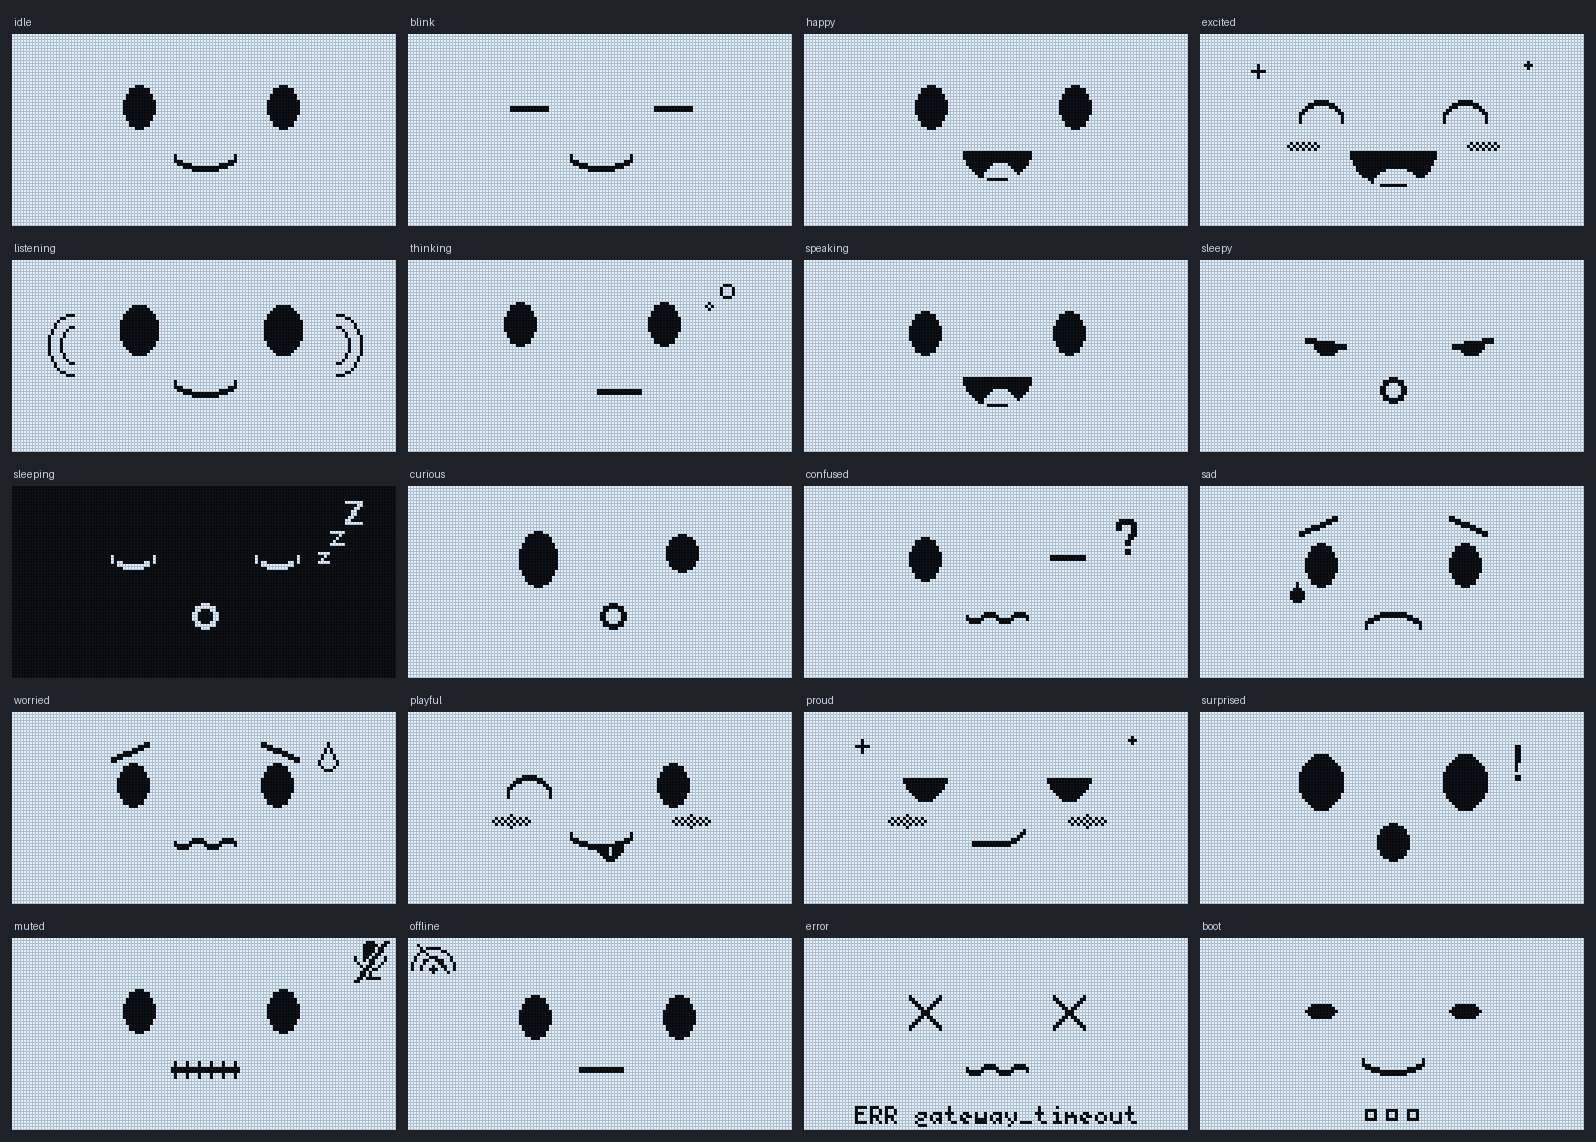
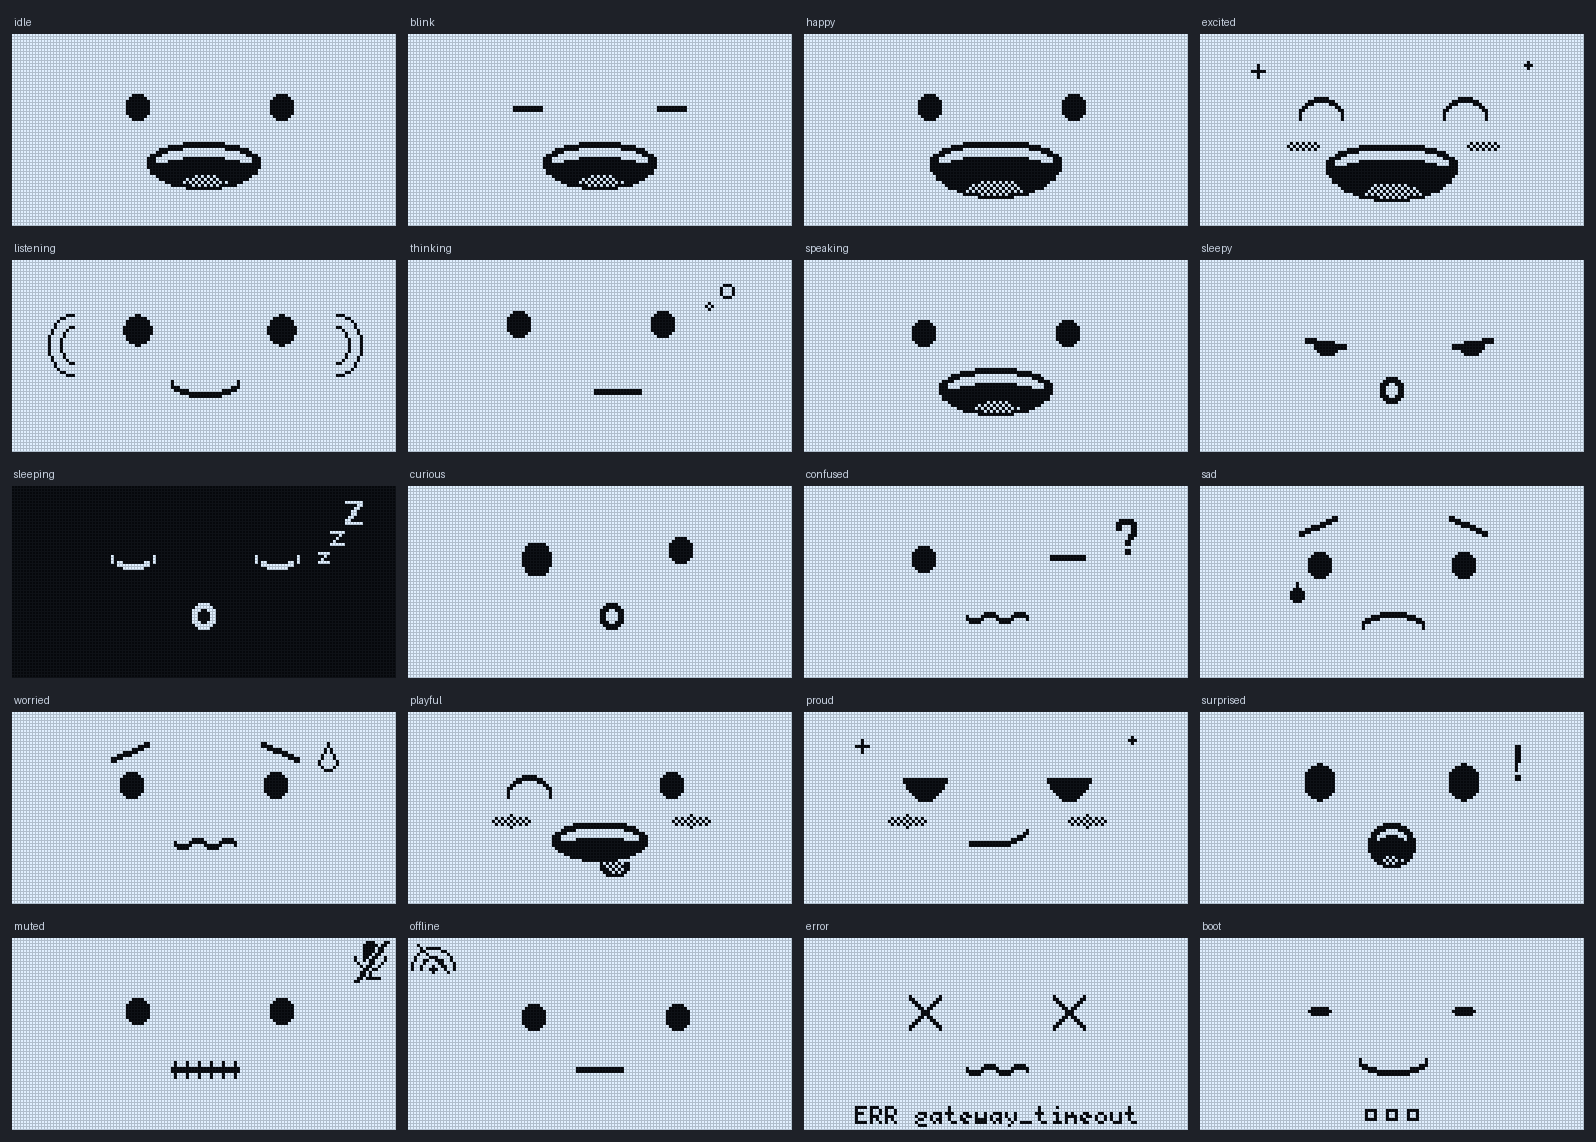
BMO's own face: round dot eyes and open mouth with teeth and tongue
Proportions measured from a reference of BMO's face: round dot eyes at
27 %/73 % of the width, a wide open mouth (flat-ish top, deeper round
bottom) with a 2 px dark lip, a lit teeth band and a half-tone tongue.
The resting face uses this mouth; happy/excited use a bigger one; talking
steps through closed, small, medium and full open mouths.

Claude-Session: https://claude.ai/code/session_01HPnAtW7D4HTiLvwf8xaJZK

diff --git a/firmware/lib/robot_ui/src/face_painter.cpp b/firmware/lib/robot_ui/src/face_painter.cpp
@@ -39,6 +39,55 @@ void MonoFacePainter::fillEllipse(u8g2_t* g, int cx, int cy, int rx, int ry, Rol
   }
 }
 
+namespace {
+inline bool inEllipse(float px, float py, float cx, float cy, float rx, float ry) {
+  if (rx <= 0 || ry <= 0) return false;
+  float dx = (px - cx) / rx, dy = (py - cy) / ry;
+  return dx * dx + dy * dy <= 1.0f;
+}
+// Inside the mouth outline: upper half uses `top`, lower half `bottom` as vertical radius.
+inline bool inMouth(float px, float py, float cx, float cy, float rx, float top, float bottom) {
+  return inEllipse(px, py, cx, cy, rx, py < cy ? top : bottom);
+}
+}  // namespace
+
+void MonoFacePainter::fillEllipseF(u8g2_t* g, float cx, float cy, float rx, float ry, Role r, int part) {
+  if (rx <= 0.3f || ry <= 0.3f) return;
+  setRole(g, r == Role::Screen ? Role::Screen : Role::Feature);
+  int y0 = (int)floorf(cy - ry), y1 = (int)ceilf(cy + ry), x0 = (int)floorf(cx - rx), x1 = (int)ceilf(cx + rx);
+  for (int y = y0; y <= y1; y++) {
+    float py = y + 0.5f;
+    if ((part == 1 && py > cy) || (part == 2 && py < cy)) continue;
+    for (int x = x0; x <= x1; x++)
+      if (inEllipse(x + 0.5f, py, cx, cy, rx, ry) && (r != Role::Accent || ((x + y) & 1) == 0)) pixel(g, x, y);
+  }
+  setRole(g, Role::Feature);
+}
+
+void MonoFacePainter::bmoMouth(u8g2_t* g, float cx, float cy, float rx, float top, float bottom, int teeth,
+                               float tongueRx, float tongueRy) {
+  int y0 = (int)floorf(cy - top), y1 = (int)ceilf(cy + bottom), x0 = (int)floorf(cx - rx), x1 = (int)ceilf(cx + rx);
+  for (int y = y0; y <= y1; y++) {
+    for (int x = x0; x <= x1; x++) {
+      float px = x + 0.5f, py = y + 0.5f;
+      if (!inMouth(px, py, cx, cy, rx, top, bottom)) continue;
+      bool lit = false;
+      // Teeth: the band between the top lip (a 2 px dark edge, so white teeth stand apart from
+      // the lit screen) and the same curve `teeth` px lower.
+      if (teeth > 0 && py < cy && inEllipse(px, py, cx, cy, rx - 2.6f, top - 2.0f) &&
+          !inEllipse(px, py, cx, cy + teeth, rx - 2.6f, top - 2.0f))
+        lit = true;
+      // Tongue: a hump rising from the bottom, kept 1 px inside the outline, half-tone.
+      if (!lit && tongueRx > 0 && py > cy && inEllipse(px, py, cx, cy + bottom, tongueRx, tongueRy) &&
+          inMouth(px, py, cx, cy, rx - 1.5f, top, bottom - 1.2f))
+        lit = ((x + y) & 1) == 0;
+      setRole(g, lit ? Role::Screen : Role::Feature);
+      pixel(g, x, y);
+    }
+  }
+  setRole(g, Role::Feature);
+}
+
 void MonoFacePainter::thickHLine(u8g2_t* g, int x, int y, int w, int t) {
   if (w > 0 && t > 0) u8g2_DrawBox(g, (u8g2_uint_t)x, (u8g2_uint_t)y, (u8g2_uint_t)w, (u8g2_uint_t)t);
 }
@@ -81,10 +130,10 @@ void MonoFacePainter::wifiOffIcon(u8g2_t* g, int x, int y) {
 void MonoFacePainter::eye(u8g2_t* g, int cx, int cy, const EyePose& e, bool left) {
   float s = e.scale;
   switch (e.kind) {
-    case EyeKind::Dot: {
-      int rx = iround(5.0f * s), ry = iround(7.0f * s * e.open);
-      if (ry <= 1) thickHLine(g, cx - 6, cy, 13);
-      else fillEllipse(g, cx, cy, rx, ry, Role::Feature);
+    case EyeKind::Dot: {  // BMO's round dot: 8 x 9 px at scale 1
+      float ry = 4.5f * s * e.open;
+      if (ry < 1.2f) thickHLine(g, cx - 5, cy, 10);
+      else fillEllipseF(g, (float)cx, cy + 0.5f, 4.0f * s, ry, Role::Feature);
       break;
     }
     case EyeKind::Closed:
@@ -126,26 +175,31 @@ void MonoFacePainter::eye(u8g2_t* g, int cx, int cy, const EyePose& e, bool left
 
 // ------------------------------------------------------------------ mouth
 void MonoFacePainter::mouth(u8g2_t* g, int cx, int cy, const FacePose& p) {
-  auto openMouth = [&](int rx, int ry, int top, bool tongue) {
-    fillEllipse(g, cx, top, rx, ry, Role::Feature, kLower);
-    thickHLine(g, cx - rx, top, 2 * rx + 1, 1);
-    if (tongue && ry >= 5) fillEllipse(g, cx + 1, top + ry - 1, rx / 2, ry / 3 + 1, Role::Screen, kUpper);
-  };
+  const float mx = (float)cx, my = (float)cy;  // corner line; symmetric around pixel boundary cx
   switch (p.mouth) {
-    case MouthKind::Smile:
-      arc(g, cx, cy - 3, 10, 4, kLower);
+    case MouthKind::Grin:     // BMO's own open mouth (proportions from the show's face)
+      bmoMouth(g, mx, my, 19, 7, 9, 3, 9, 5);
+      break;
+    case MouthKind::BigGrin:  // wider and deeper
+      bmoMouth(g, mx, my, 22, 7.5f, 12, 3, 11, 6.5f);
+      break;
+    case MouthKind::BigO:     // surprised: a tall round open mouth
+      bmoMouth(g, mx, my + 1, 8, 7, 8, 2, 4.5f, 4);
+      break;
+    case MouthKind::Tongue:   // playful: open mouth with the tongue out over the lower lip
+      bmoMouth(g, mx, my, 16, 6.5f, 7, 3, 0, 0);
+      fillEllipseF(g, mx + 5, my + 7.5f, 5, 5, Role::Feature, 2);
+      fillEllipseF(g, mx + 5, my + 7.5f, 3.6f, 3.6f, Role::Screen, 2);
+      fillEllipseF(g, mx + 5, my + 7.5f, 3.6f, 3.6f, Role::Accent, 2);
+      break;
+    case MouthKind::Smile:    // closed smile line
+      arc(g, cx, cy - 3, 11, 4, kLower);
       break;
     case MouthKind::Flat:
-      thickHLine(g, cx - 7, cy, 15);
-      break;
-    case MouthKind::Grin:
-      openMouth(11, 9, cy - 4, true);
-      break;
-    case MouthKind::BigGrin:
-      openMouth(14, 11, cy - 5, true);
+      thickHLine(g, cx - 8, cy, 16);
       break;
     case MouthKind::Frown:
-      arc(g, cx, cy + 4, 9, 4, kUpper);
+      arc(g, cx, cy + 4, 10, 4, kUpper);
       break;
     case MouthKind::Wavy: {
       int px = cx - 10, py = cy + iround(1.5f * sinf(-10 * 0.6f));
@@ -157,35 +211,25 @@ void MonoFacePainter::mouth(u8g2_t* g, int cx, int cy, const FacePose& p) {
       }
       break;
     }
-    case MouthKind::SmallO:  // a clean 2 px ring
-      fillEllipse(g, cx, cy, 4, 4, Role::Feature);
-      fillEllipse(g, cx, cy, 2, 2, Role::Screen);
-      break;
-    case MouthKind::BigO:
-      fillEllipse(g, cx, cy, 5, 6, Role::Feature);
+    case MouthKind::SmallO:  // a small open "o" (yawn, snore, wonder)
+      fillEllipseF(g, mx, my + 0.5f, 4, 4.5f, Role::Feature);
+      fillEllipseF(g, mx, my + 0.5f, 2, 2.5f, Role::Screen);
       break;
     case MouthKind::Smirk:
-      thickLine(g, cx - 8, cy, cx + 2, cy);
+      thickLine(g, cx - 9, cy, cx + 2, cy);
       thickLine(g, cx + 2, cy, cx + 6, cy - 1);
-      thickLine(g, cx + 6, cy - 1, cx + 9, cy - 4);
-      break;
-    case MouthKind::Tongue:
-      arc(g, cx, cy - 3, 10, 4, kLower);
-      fillEllipse(g, cx + 3, cy + 1, 4, 5, Role::Feature, kLower);
-      setRole(g, Role::Screen);
-      u8g2_DrawVLine(g, (u8g2_uint_t)(cx + 3), (u8g2_uint_t)(cy + 2), 3);
-      setRole(g, Role::Feature);
+      thickLine(g, cx + 6, cy - 1, cx + 10, cy - 4);
       break;
     case MouthKind::Zipper:
       thickHLine(g, cx - 11, cy, 23);
       for (int x = cx - 10; x <= cx + 10; x += 4) u8g2_DrawVLine(g, (u8g2_uint_t)x, (u8g2_uint_t)(cy - 2), 6);
       break;
-    case MouthKind::Talk: {
+    case MouthKind::Talk: {  // BMO talking: closed -> small -> medium -> full open mouth
       int step = iround(p.mouthOpen * 3);
-      if (step <= 0) thickHLine(g, cx - 6, cy, 13);
-      else if (step == 1) fillEllipse(g, cx, cy, 6, 2, Role::Feature);
-      else if (step == 2) openMouth(8, 6, cy - 3, false);
-      else openMouth(11, 9, cy - 4, true);
+      if (step <= 0) arc(g, cx, cy - 3, 11, 4, kLower);
+      else if (step == 1) bmoMouth(g, mx, my, 12, 4.5f, 4, 2, 0, 0);
+      else if (step == 2) bmoMouth(g, mx, my, 16, 6, 7, 2, 6, 3.5f);
+      else bmoMouth(g, mx, my, 19, 7, 9, 3, 9, 5);
       break;
     }
     default:

diff --git a/firmware/test/test_face_model/test_main.cpp b/firmware/test/test_face_model/test_main.cpp
@@ -35,8 +35,9 @@ void test_every_expression_has_its_own_design() {
       snprintf(msg, sizeof(msg), "%s vs %s", toString(all[i]), toString(all[j]));
       TEST_ASSERT_FALSE_MESSAGE(samePose(designFor(all[i]), designFor(all[j])), msg);
     }
-  // BMO's signature parts
+  // BMO's signature parts: round dot eyes and the open mouth with teeth and tongue
   TEST_ASSERT_EQUAL((int)EyeKind::Dot, (int)designFor(Expression::Idle).eye[0].kind);
+  TEST_ASSERT_EQUAL((int)MouthKind::Grin, (int)designFor(Expression::Idle).mouth);
   TEST_ASSERT_EQUAL((int)EyeKind::Arc, (int)designFor(Expression::Excited).eye[0].kind);
   TEST_ASSERT_TRUE(designFor(Expression::Playful).eye[0].kind != designFor(Expression::Playful).eye[1].kind);  // wink
   TEST_ASSERT_EQUAL((int)MouthKind::Zipper, (int)designFor(Expression::Muted).mouth);
@@ -137,7 +138,7 @@ void test_talking_mouth_follows_level_without_flicker() {
   vm.audioLevel = 0;
   vm.expression = Expression::Idle;
   for (uint32_t t = 6000; t < 7000; t += 33) a.update(vm, t);
-  TEST_ASSERT_EQUAL((int)MouthKind::Smile, (int)a.update(vm, 7000).mouth);
+  TEST_ASSERT_EQUAL((int)MouthKind::Grin, (int)a.update(vm, 7000).mouth);  // BMO's resting open mouth
 }
 
 void test_expression_change_happens_behind_a_blink() {
@@ -149,10 +150,10 @@ void test_expression_change_happens_behind_a_blink() {
   vm.expression = Expression::Happy;
   FacePose first = a.update(vm, 1000);
   TEST_ASSERT_EQUAL_UINT32(before + 1, a.blinkCount());
-  TEST_ASSERT_EQUAL((int)MouthKind::Smile, (int)first.mouth);  // old face until the eyes close
+  TEST_ASSERT_EQUAL((int)MouthKind::Grin, (int)first.mouth);  // old face until the eyes close
   FacePose p;
   for (uint32_t t = 1033; t < 1400; t += 33) p = a.update(vm, t);
-  TEST_ASSERT_EQUAL((int)MouthKind::Grin, (int)p.mouth);
+  TEST_ASSERT_EQUAL((int)MouthKind::BigGrin, (int)p.mouth);
   TEST_ASSERT_EQUAL_FLOAT(1.0f, p.eye[0].open);  // and open again
 }
 

diff --git a/firmware/lib/robot_ui/src/face_painter.h b/firmware/lib/robot_ui/src/face_painter.h
@@ -12,11 +12,13 @@
 
 namespace robot {
 
+// Proportions measured from BMO's face: round dot eyes at ~27 % / 73 % of the width and 40 % of
+// the height; a wide open mouth (~30 % of the width) whose corners sit at ~66 % of the height.
 struct FaceLayout {
-  int eyeX[2] = {40, 88};  // eye centres (BMO's eyes sit wide apart, upper half)
-  int eyeY = 24;
-  int mouthX = 64;
-  int mouthY = 43;
+  int eyeX[2] = {34, 94};
+  int eyeY = 25;
+  int mouthX = 64;  // the mouth is symmetric around the pixel boundary 63|64
+  int mouthY = 42;  // the line through the mouth's corners
 };
 
 class MonoFacePainter {
@@ -29,6 +31,12 @@ class MonoFacePainter {
   static void thickHLine(u8g2_t* g, int x, int y, int w, int t = 2);
   static void thickLine(u8g2_t* g, int x0, int y0, int x1, int y1);
   static void arc(u8g2_t* g, int cx, int cy, int rx, int ry, uint8_t opt);  // 2 px outline
+  // Sub-pixel ellipse: fills pixels whose centres lie inside. part: 0 all, 1 upper, 2 lower half.
+  static void fillEllipseF(u8g2_t* g, float cx, float cy, float rx, float ry, Role r, int part = 0);
+  // BMO's open mouth: dark body (flat-ish top, deeper round bottom), a lit teeth band under the
+  // top lip and a lighter (dithered) tongue at the bottom.
+  static void bmoMouth(u8g2_t* g, float cx, float cy, float rx, float top, float bottom, int teeth,
+                       float tongueRx, float tongueRy);
   static void micOffIcon(u8g2_t* g, int x, int y);   // 11 x 14
   static void wifiOffIcon(u8g2_t* g, int x, int y);  // 11 x 9
 

diff --git a/firmware/lib/robot_logic/src/face_model.cpp b/firmware/lib/robot_logic/src/face_model.cpp
@@ -37,18 +37,19 @@ FacePose designFor(Expression e) {
     p.eye[1].kind = r;
   };
   switch (e) {
-    case Expression::Idle:
+    case Expression::Idle:   // BMO's own face: round dot eyes, open mouth with teeth and tongue
     case Expression::Blink:
     case Expression::Boot:
-      p.mouth = MouthKind::Smile;
+      p.mouth = MouthKind::Grin;
       break;
     case Expression::Happy:
-      p.mouth = MouthKind::Grin;
+      p.mouth = MouthKind::BigGrin;
       break;
     case Expression::Excited:
       eyes(EyeKind::Arc, EyeKind::Arc);
       p.mouth = MouthKind::BigGrin;
       p.marks = kMarkBlush | kMarkSparkle;
+      p.eye[0].dy = p.eye[1].dy = -1;
       break;
     case Expression::Listening:
       p.eye[0].scale = p.eye[1].scale = 1.15f;
@@ -93,9 +94,8 @@ FacePose designFor(Expression e) {
       p.marks = kMarkBrows | kMarkSweat;
       break;
     case Expression::Curious:
-      p.eye[0].scale = 1.25f;
-      p.eye[1].scale = 0.9f;
-      p.eye[1].dy = -2;
+      p.eye[0].scale = 1.3f;   // one big eye, the other normal and raised: a head tilt
+      p.eye[1].dy = -3;
       p.mouth = MouthKind::SmallO;
       p.mouthDx = 4;
       break;

diff --git a/firmware/lib/robot_ui/src/face_renderer.cpp b/firmware/lib/robot_ui/src/face_renderer.cpp
@@ -120,7 +120,7 @@ void FaceRenderer::drawBoot(u8g2_t* g, const ViewModel& vm, uint32_t now) {
     FacePose p = pose_;
     float open = t < 1250 ? (float)(t - 950) / 300.0f : 1.0f;  // eyes open
     p.eye[0].open = p.eye[1].open = open;
-    p.mouth = MouthKind::Smile;
+    p.mouth = t < 1250 ? MouthKind::Smile : MouthKind::Grin;  // then BMO's open mouth
     p.marks = 0;
     painter_.draw(g, p, layout_);
     for (int i = 0; i < 3; i++) {  // loading blocks
